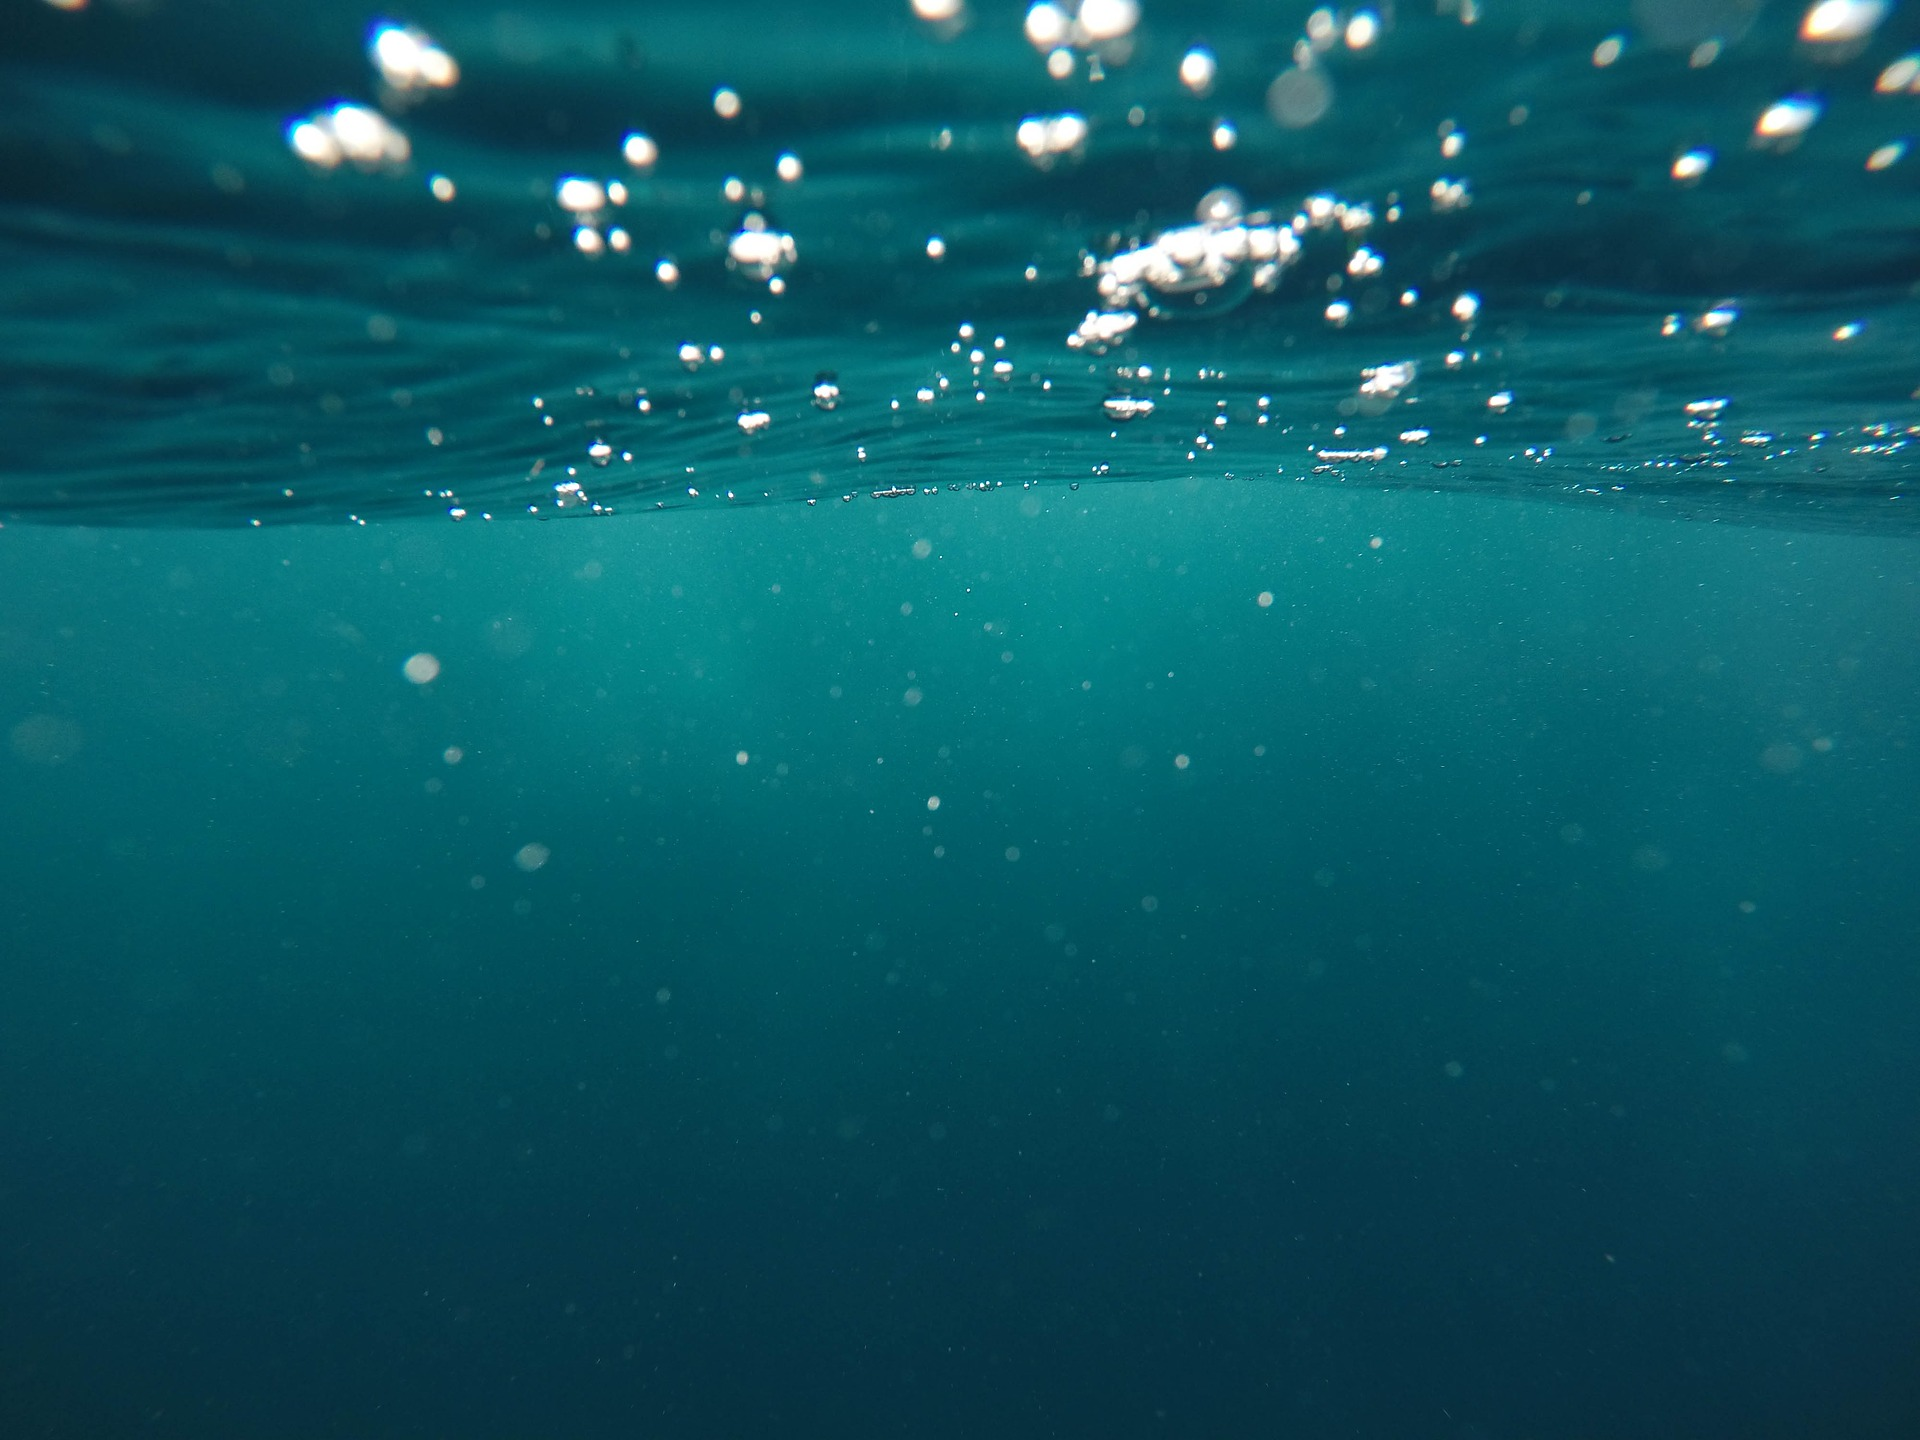
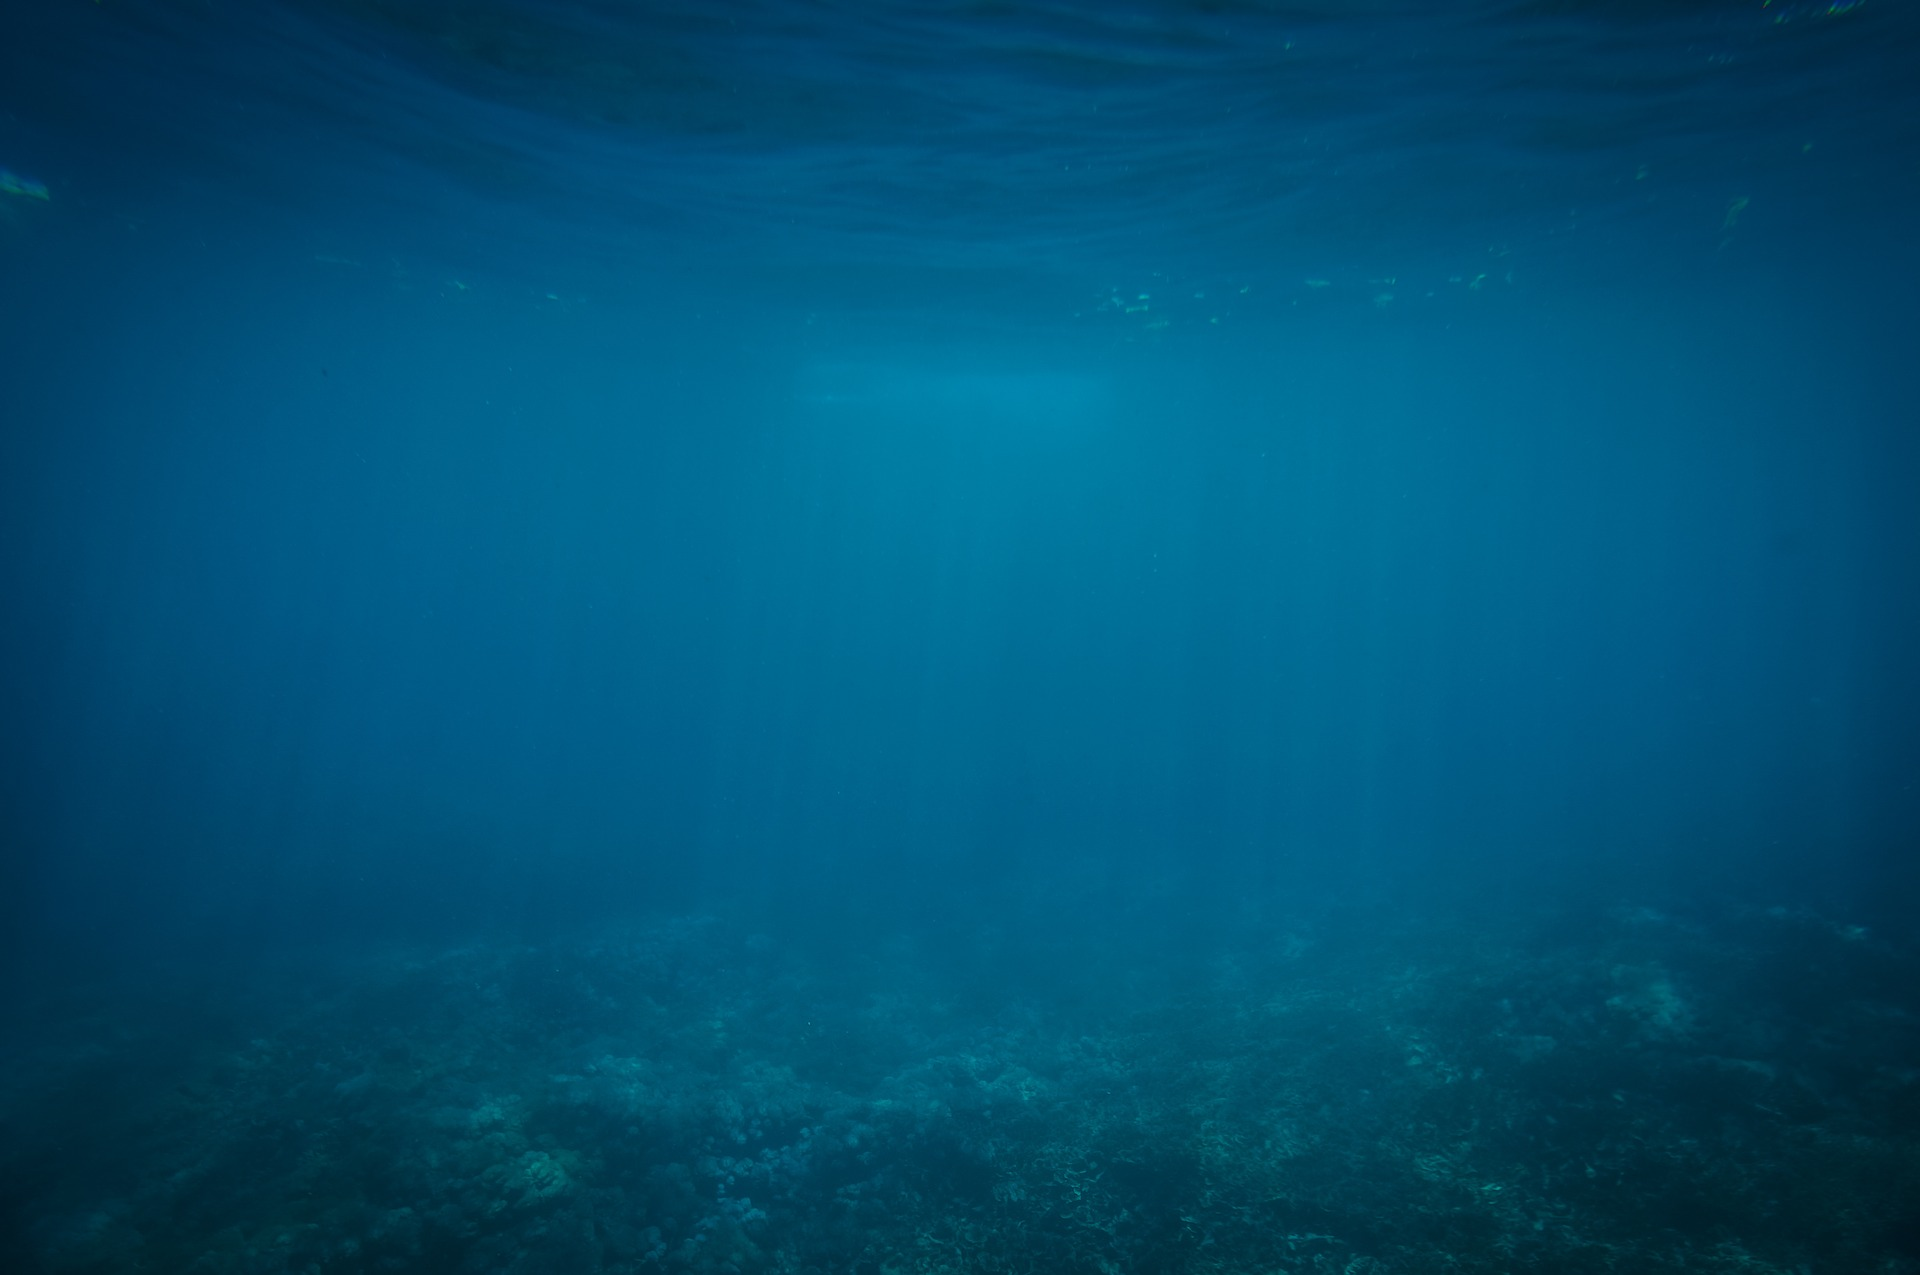
Mobile first

diff --git a/index.html b/index.html
@@ -7,6 +7,89 @@
     <title>Jellyfish Concept</title>
   </head>
   <body>
-    
+    <div id="home">
+      <section id="top_bar">
+        <img src="img/menu.png" alt="" class="thumbnail">
+        <div>
+          <img src="img/basket.png" alt="" class="thumbnail" id="logo_basket">
+          <img src="img/user.png" alt="" class="thumbnail">
+        </div>
+      </section>
+
+      <section id="title">
+        <h1>JELLYFISH CONCEPT</h1>
+        <button type="button" name="discover" class="discover">DECOUVREZ NOS MEDUSES</button>
+      </section>
+
+      <section id="bot_bar">
+        <img src="img/facebook.png" alt="" class="facebook">
+        <img src="img/arrow.png" alt="" class="down_arrow">
+      </section>
+    </div>
+
+    <div class="infos">
+      <section>
+        <h2>La première ferme d'élevage de méduse d'Europe</h2>
+        <button type="button" name="histoire">DÉCOUVREZ NOTRE HISTOIRE</button>
+      </section>
+
+      <section id="img_ferme">
+      </section>
+    </div>
+
+    <div class="infos">
+      <section>
+        <h2>Votre aquarium sur mesure à l'aide de professionnels</h2>
+        <button type="button" name="histoire">RÉALISER MON AQUARIUM</button>
+      </section>
+
+      <section id="img_aquarium">
+      </section>
+    </div>
+
+    <div class="infos">
+      <section>
+        <h2>Pack entretien</h2>
+        <h3>Tout le nécessaire pour entretenir votre aquarium Orbit20, Pulse80 ou Medusa60</h3>
+        <ul>
+          <li>Sachets de sel</li>
+          <li>Ampoules Bioclean</li>
+          <li>Frais de port gratuit</li>
+        </ul>
+        <button type="button" name="histoire">DÉCOUVRIR</button>
+      </section>
+
+      <section id="img_entretien">
+      </section>
+    </div>
+
+    <footer>
+      <section id="plan">
+        <h4>Plan du site</h4>
+        <ul>
+          <li>Qui sommes nous ?</li>
+          <li>Produits</li>
+          <li>Conseil</li>
+          <li>Contatc</li>
+          <li>Panier</li>
+          <li>Mon compte</li>
+        </ul>
+      </section>
+
+      <section id="conditions">
+        <h4>Condition de vente</h4>
+        <ul>
+          <li>CGU</li>
+          <li>Condition d'envoie</li>
+        </ul>
+      </section>
+
+      <section id="contact">
+        <h4>Nous contacter</h4>
+        <div class="contact_messenger">
+          <img src="img/facebook_blue.png" alt="">
+        </div>
+      </section>
+    </footer>
   </body>
 </html>

diff --git a/style.css b/style.css
@@ -17,3 +17,162 @@
   src: url(fonts/circular-medium.otf);
   font-weight: 500;
 }
+
+body
+{
+  margin: 0;
+  font-family: Circular;
+  font-weight: 400
+}
+
+#home
+{
+  width: 100vw;
+  height: 100vh;
+  display: flex;
+  flex-direction: column;
+  justify-content:space-between;
+  align-items: center;
+  background-image: url(img/jellyhome.png);
+  background-position: center;
+}
+
+#top_bar
+{
+  width: 90%;
+  display: flex;
+  justify-content: space-between;
+  margin-top: 15px
+}
+
+#logo_basket
+{
+  margin-right: 15px
+}
+
+.thumbnail
+{
+  width: 33px;
+}
+
+h1
+{
+  font-family: baskerville-display-pt, serif;
+  color: #FFF;
+  font-size: 60px;
+  text-align: center;
+}
+
+.discover
+{
+  display: none;
+}
+
+#bot_bar
+{
+  width: 90%;
+  display: flex;
+}
+
+.facebook
+{
+  width: 50px;
+  left: 0;
+  padding-bottom: 20px
+}
+
+.down_arrow
+{
+  width: 50px;
+  height: 50px;
+  justify-content: center;
+  transform: rotate(90deg);
+  margin-left: calc(50vw - 90px)
+}
+
+.infos
+{
+  display: flex;
+  flex-direction: column;
+  align-items: center;
+  margin-bottom: 30px
+}
+
+h2
+{
+  font-size: 20px;
+  color: #011842;
+  text-align: center;
+  margin: 20px 40px
+}
+
+#img_ferme
+{
+  width: 300px;
+  height: 230px;
+  background-image: url(img/ferme.jpg);
+  background-size: cover;
+  border-radius: 10px;
+  display: flex;
+}
+
+#img_aquarium
+{
+  width: 300px;
+  height: 230px;
+  background-image: url(img/aqua.jpg);
+  background-size: cover;
+  border-radius: 10px;
+  display: flex;
+}
+
+#img_entretien
+{
+  width: 300px;
+  height: 230px;
+  background-image: url(img/sea.jpg);
+  background-size: cover;
+  background-position: bottom;
+  border-radius: 10px;
+  display: flex;
+}
+
+
+.infos button
+{
+  color: #FFF;
+  font-size: 15px;
+  height: 40px;
+  width: 250px;
+  border: solid 1px #FFF;
+  border-radius: 5px;
+  background-color: rgba(255, 255, 255, 0.3);
+  margin: auto;
+  margin-top: 175px;
+  position: absolute;
+  left: 0;
+  right: 0;
+}
+
+h3
+{
+  font-size: 15px;
+  color: #011842;
+  text-align: center;
+  margin: 20px 20px
+}
+
+.infos ul
+{
+  font-weight: 700;
+  text-align: center;
+  list-style: none;
+  padding: 0;
+  color: #FFF;
+  font-size: 17px;
+  line-height: 2.5;
+  margin-top: 30px;
+  position: absolute;
+  left: 0;
+  right: 0;
+}
